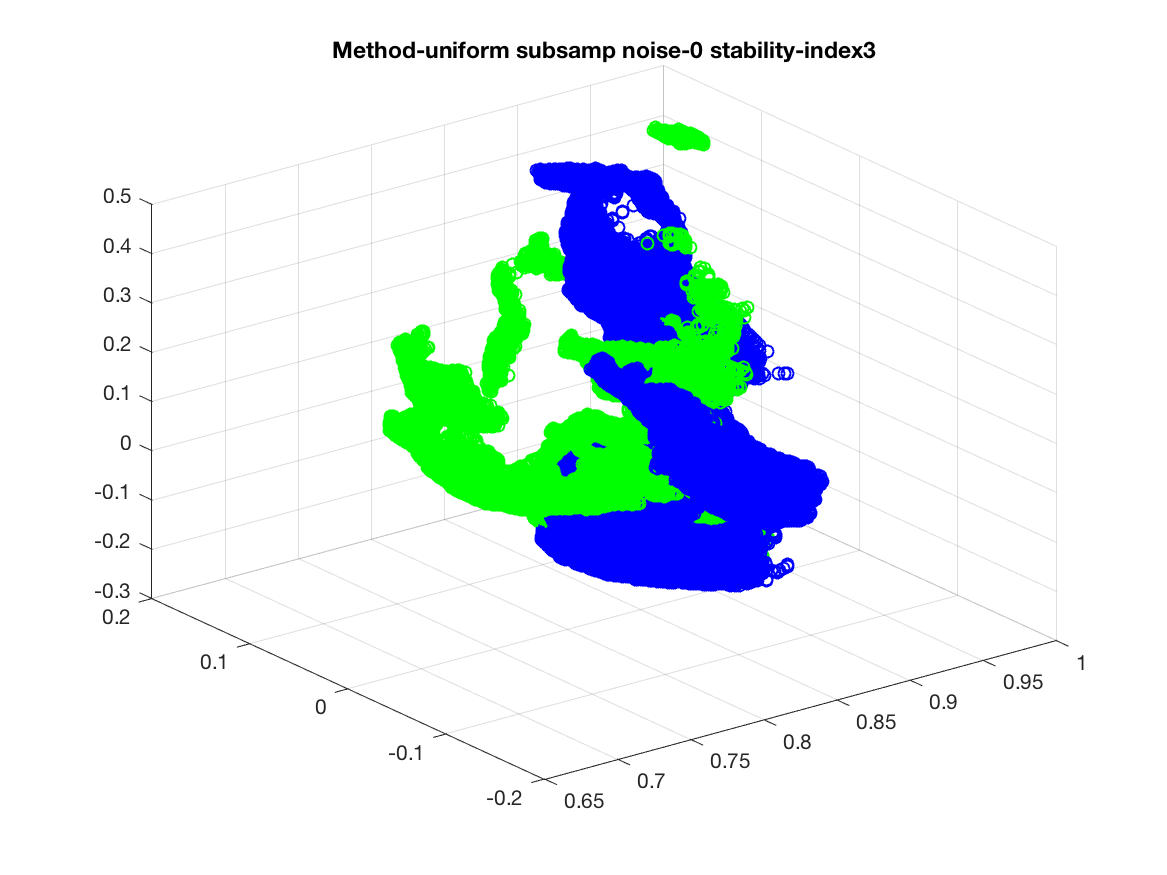
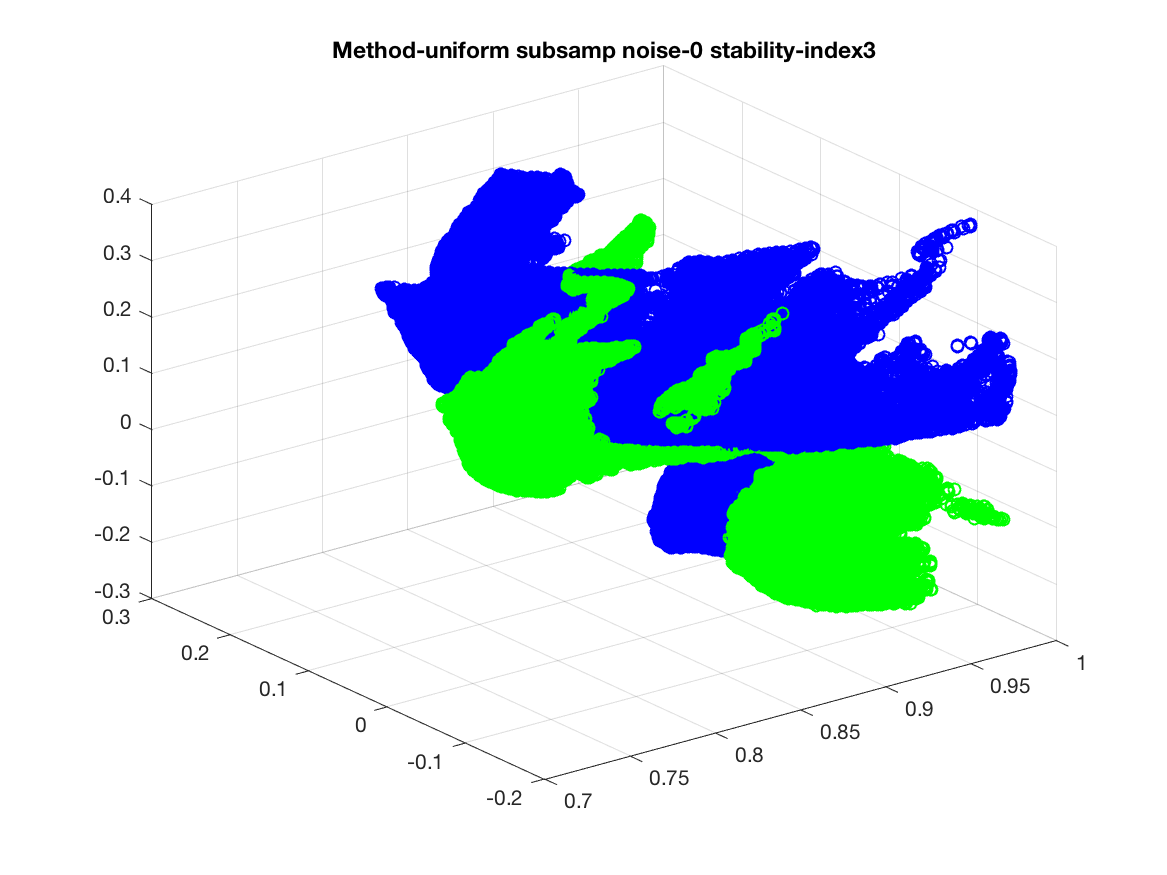
new results with filter added

diff --git a/Assignment1/icp/filter_bad_points.m b/Assignment1/icp/filter_bad_points.m
@@ -1,0 +1,8 @@
+function [filtered_matches] = filter_bad_points(matches, R, t)
+%FILTER_BAD_POINTS Summary of this function goes here
+%   Detailed explanation goes here
+matches(1:3,:) = R * matches(1:3,:) + t;
+filtered_matches = matches(:, mean(matches(1:3,:) - matches(4:6,:),1) < 0.01);
+filtered_matches = filtered_matches(:, filtered_matches(3,:) < 2);
+end
+

diff --git a/Assignment1/icp/icp.m b/Assignment1/icp/icp.m
@@ -55,6 +55,7 @@ while ~finished
     
     % find matches for every point
     [matches] = find_match(A1_local, A2_local);
+    matches = filter_bad_points(matches, R, t);
     
     % check exit condition
     error = rms(matches(1:3,:), matches(4:6,:), R, t);
